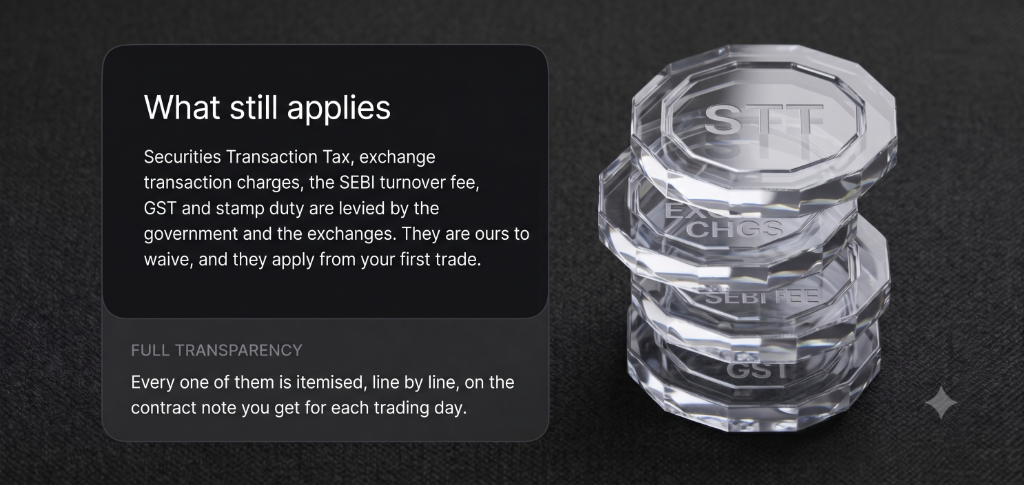
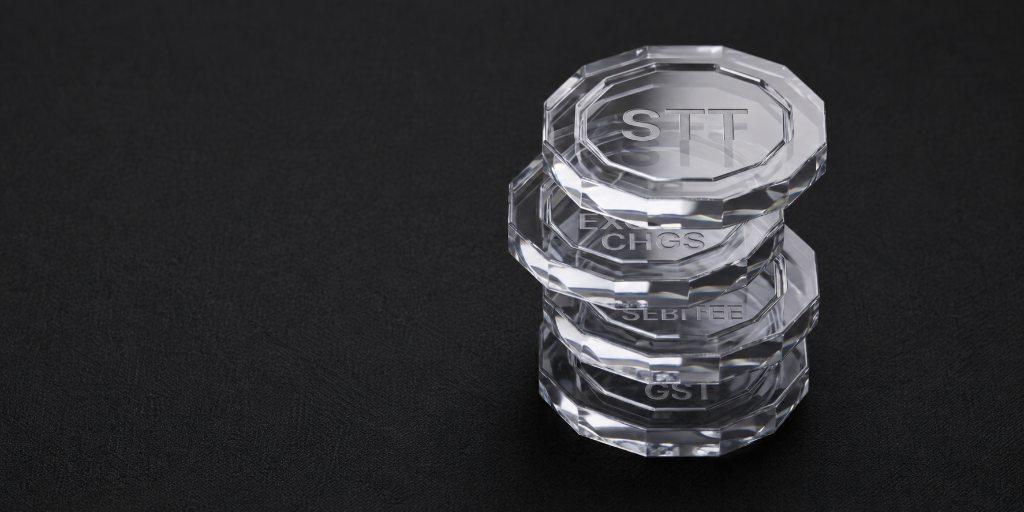
feat: put the offer cards on plates, drop the dual-monitor band
Offer's two cards each take a full-bleed image behind their copy —
offer_key_bg on the terms card, offer_tokens_bg on the statutory one —
with a bottom-weighted gradient and text shadows carrying legibility
over them.

Section 03, "Every screen you run, in one browser", is removed along
with its dual_monitors plate. Container is no longer imported by
SectionTwo.

offer_tokens_bg.png is re-exported and grows 764KB to 1,047KB.

diff --git a/src/components/sections/Offer.tsx b/src/components/sections/Offer.tsx
@@ -13,49 +13,73 @@ export default function Offer() {
       subheading="Equity, futures and options, from the day your account is activated. No tiers, no minimum turnover."
     >
       <div className="grid gap-8 lg:grid-cols-2">
-        {/* Card 1: What is included */}
-        <SpotlightCard className="rounded-3xl p-6 sm:p-8 space-y-6 flex flex-col justify-between border border-white/10">
-          <div>
-            <h3 className="display text-[clamp(1.375rem,2vw,1.75rem)] leading-snug text-fg">
-              Full Access for Six Months
-            </h3>
-            <p className="mt-2 text-sm text-fg-muted leading-relaxed">
-              It belongs to everyone on the waitlist, and the list closes when we open.
-            </p>
+        {/* Card 1: What is included (Golden Key BG) */}
+        <SpotlightCard className="rounded-3xl p-6 sm:p-8 space-y-6 flex flex-col justify-between border border-white/10 relative overflow-hidden group">
+          {/* Visible Background Image - Golden Key */}
+          <div className="absolute inset-0 pointer-events-none select-none overflow-hidden rounded-3xl z-0">
+            <img
+              src="/offer_key_bg.png"
+              alt=""
+              className="h-full w-full object-cover object-center opacity-75 transition-opacity duration-500 group-hover:opacity-90"
+            />
+            <div className="absolute inset-0 bg-gradient-to-t from-[#0A0808]/90 via-[#0A0808]/45 to-[#0A0808]/20" />
+          </div>
 
-            <ul className="mt-6 space-y-4">
-              {offer.terms.map((term, i) => (
-                <li key={i} className="flex items-start gap-3">
-                  <span
-                    aria-hidden="true"
-                    className="mt-[0.6em] h-px w-3 shrink-0 bg-chrome/60"
-                  />
-                  <p className="text-sm leading-relaxed text-fg-muted">{term}</p>
-                </li>
-              ))}
-            </ul>
+          <div className="relative z-10 flex flex-col justify-between h-full space-y-6">
+            <div>
+              <h3 className="display text-[clamp(1.375rem,2vw,1.75rem)] leading-snug text-fg drop-shadow-[0_2px_4px_rgba(0,0,0,0.9)]">
+                Full Access for Six Months
+              </h3>
+              <p className="mt-2 text-sm text-fg-muted leading-relaxed drop-shadow-[0_1px_3px_rgba(0,0,0,0.8)]">
+                It belongs to everyone on the waitlist, and the list closes when we open.
+              </p>
+
+              <ul className="mt-6 space-y-4">
+                {offer.terms.map((term, i) => (
+                  <li key={i} className="flex items-start gap-3">
+                    <span
+                      aria-hidden="true"
+                      className="mt-[0.6em] h-px w-3 shrink-0 bg-chrome/80 shadow-sm"
+                    />
+                    <p className="text-sm leading-relaxed text-fg-muted drop-shadow-[0_1px_3px_rgba(0,0,0,0.8)]">{term}</p>
+                  </li>
+                ))}
+              </ul>
+            </div>
           </div>
         </SpotlightCard>
 
-        {/* Card 2: Statutory Breakdown */}
-        <div className="glass-card rounded-3xl p-6 sm:p-8 space-y-6 flex flex-col justify-between border border-white/10">
-          <div>
-            <h3 className="display text-[clamp(1.375rem,2vw,1.75rem)] leading-snug text-fg">
-              {offer.statutoryHeading}
-            </h3>
-
-            <p className="mt-3 text-sm leading-relaxed text-fg-muted sm:text-base">
-              {offer.statutory}
-            </p>
+        {/* Card 2: Statutory Breakdown (Crystal Fee Tokens BG) */}
+        <SpotlightCard className="rounded-3xl p-6 sm:p-8 space-y-6 flex flex-col justify-between border border-white/10 relative overflow-hidden group">
+          {/* Visible Background Image - Crystal Tokens */}
+          <div className="absolute inset-0 pointer-events-none select-none overflow-hidden rounded-3xl z-0">
+            <img
+              src="/offer_tokens_bg.png"
+              alt=""
+              className="h-full w-full object-cover object-right opacity-75 transition-opacity duration-500 group-hover:opacity-90"
+            />
+            <div className="absolute inset-0 bg-gradient-to-t from-[#0A0808]/90 via-[#0A0808]/45 to-[#0A0808]/20" />
           </div>
 
-          <div className="rounded-2xl border border-white/10 bg-surface/60 p-4 sm:p-5 backdrop-blur-md">
-            <p className="text-xs font-mono uppercase tracking-wider text-fg-subtle mb-1">Full Transparency</p>
-            <p className="text-sm font-medium leading-relaxed text-fg">
-              {offer.statutoryProof}
-            </p>
+          <div className="relative z-10 flex flex-col justify-between h-full space-y-6">
+            <div>
+              <h3 className="display text-[clamp(1.375rem,2vw,1.75rem)] leading-snug text-fg drop-shadow-[0_2px_4px_rgba(0,0,0,0.9)]">
+                {offer.statutoryHeading}
+              </h3>
+
+              <p className="mt-3 text-sm leading-relaxed text-fg-muted sm:text-base drop-shadow-[0_1px_3px_rgba(0,0,0,0.8)]">
+                {offer.statutory}
+              </p>
+            </div>
+
+            <div className="rounded-2xl border border-white/15 bg-surface/80 p-4 sm:p-5 backdrop-blur-md shadow-lg">
+              <p className="text-xs font-mono uppercase tracking-wider text-fg-subtle mb-1">Full Transparency</p>
+              <p className="text-sm font-medium leading-relaxed text-fg">
+                {offer.statutoryProof}
+              </p>
+            </div>
           </div>
-        </div>
+        </SpotlightCard>
       </div>
     </SectionShell>
   )

diff --git a/src/components/sections/SectionTwo.tsx b/src/components/sections/SectionTwo.tsx
@@ -1,5 +1,4 @@
 import { useState } from 'react'
-import Container from '../ui/Container'
 import SectionShell from '../ui/SectionShell'
 import SpotlightCard from '../ui/SpotlightCard'
 import AgenticHandsSection from './AgenticHandsSection'
@@ -70,38 +69,6 @@ export default function SectionTwo() {
           </div>
         </SpotlightCard>
       </SectionShell>
-
-      {/* ------------------------------------------------------------------ */}
-      {/* Section 03 · Every screen you run, in one browser                  */}
-      {/* ------------------------------------------------------------------ */}
-      <section id="section-03" className="scroll-mt-24 py-16 sm:py-20 lg:py-24 border-t border-border-soft">
-        <Container>
-          <div className="mx-auto w-full max-w-[84rem] grid gap-8 lg:grid-cols-2 lg:items-center xl:gap-16">
-            {/* Embedded 3D Dual-Monitor Setup (Left) */}
-            <div className="relative group flex items-center justify-center p-2 sm:p-4 order-2 lg:order-1">
-              {/* Soft ambient backglow behind monitors */}
-              <div className="pointer-events-none absolute left-1/2 top-1/2 -translate-x-1/2 -translate-y-1/2 h-[75%] w-[85%] rounded-full bg-accent/15 blur-3xl opacity-60 transition-opacity duration-500 group-hover:opacity-90" />
-              
-              {/* Dual Monitors Image */}
-              <img
-                src="/dual_monitors.png"
-                alt="Every screen you run, in one browser - Dual Monitor Pop-Out Setup"
-                className="relative z-10 w-full h-auto object-contain max-h-[560px] filter drop-shadow-[0_20px_40px_rgba(0,0,0,0.85)] transition-transform duration-500 group-hover:scale-[1.02]"
-              />
-            </div>
-
-            {/* Text Block (Right) */}
-            <div className="max-w-[36em] space-y-4 order-1 lg:order-2">
-              <h2 className="display text-[clamp(2.5rem,4.6vw,4rem)] leading-[1.08] text-fg">
-                Every screen you run, in one browser.
-              </h2>
-              <p className="text-[1.0625rem] leading-[1.65] text-fg-muted">
-                Pop a window onto the second monitor and it stays linked to the first. Orders leave from the screen you are watching, routed in milliseconds.
-              </p>
-            </div>
-          </div>
-        </Container>
-      </section>
 
 
       {/* ------------------------------------------------------------------ */}
